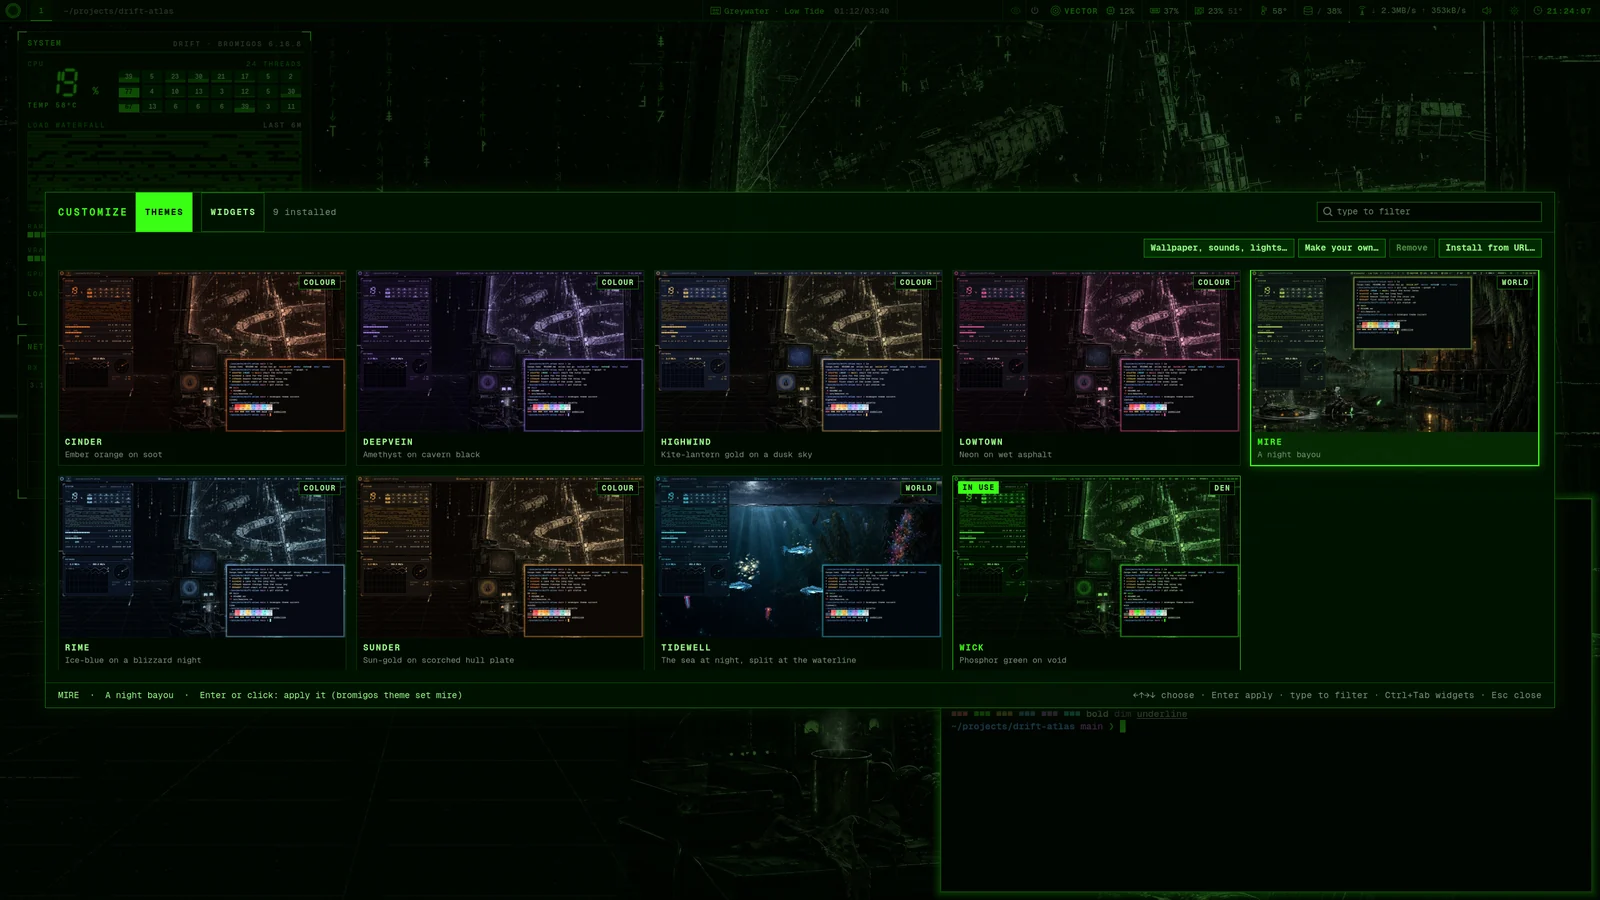
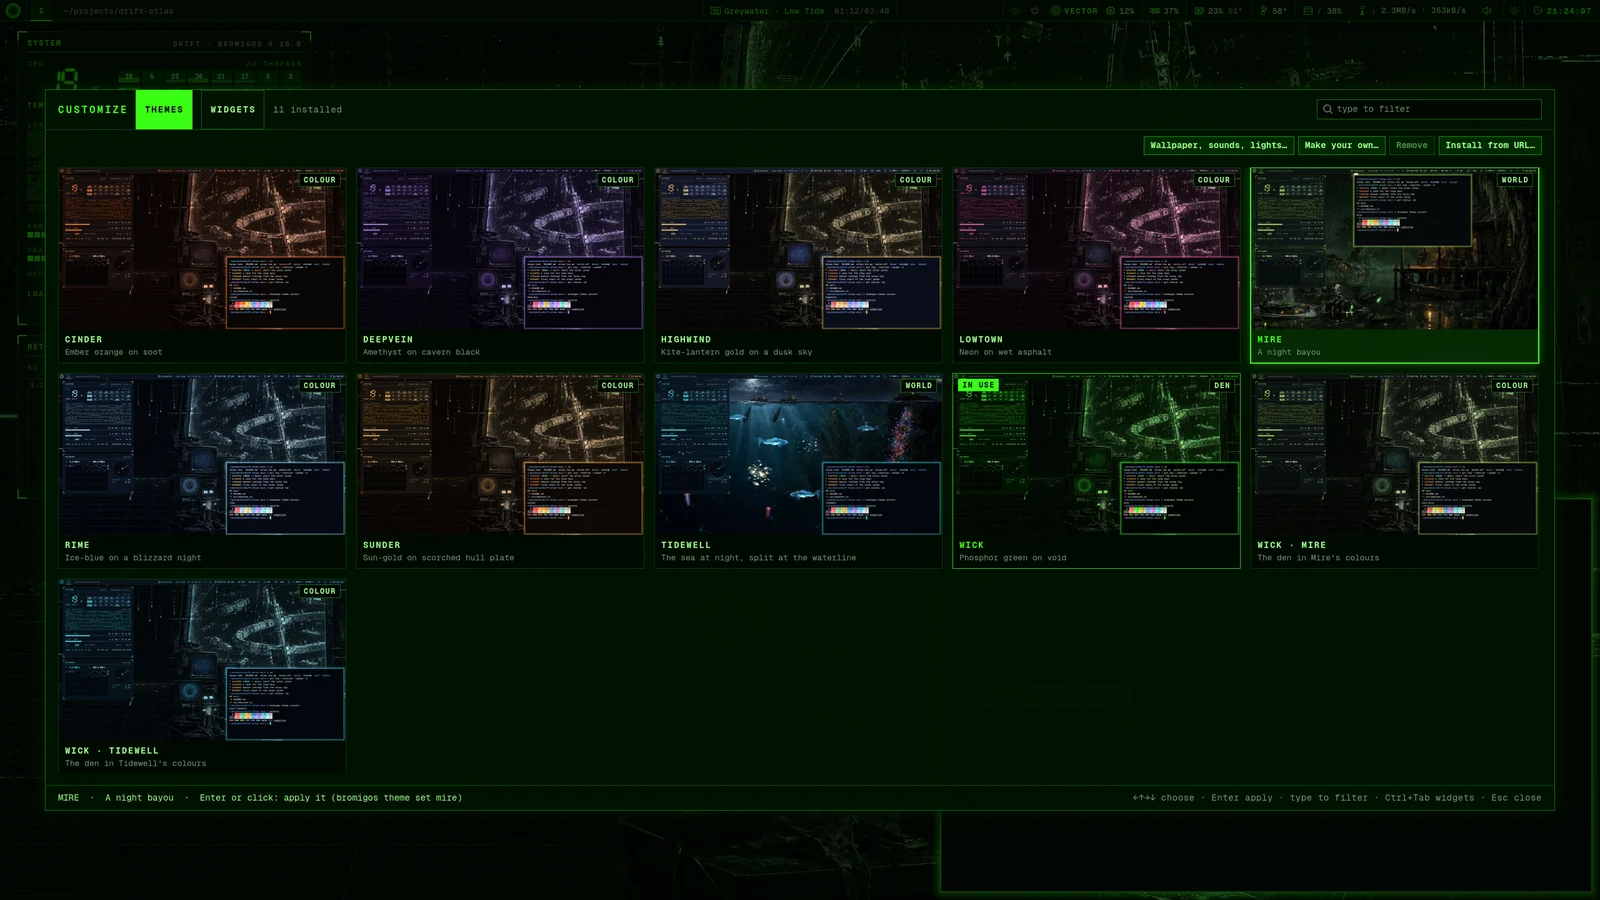
docs: theme-switcher.webp redrawn with all eleven themes, each preview the whole desktop
The Customize window on its Themes tab, over the Wick, Mire chosen, drawn
offscreen by tools/screenshots/render.py (theme-switcher) in a throwaway
home with demo readings. Every preview was drawn in the nested desktop
and captured at 1920x1080 (the kwin 6.8 fix); the old picture had nine
themes. The same picture in the docs and the manual (1600 wide). The
captions in theming.md and the manual and both ASSETS.md entries say
what it shows now.

Claude-Session: https://claude.ai/code/session_01FbnVxmYVRRhNFQnP9bFcdP

diff --git a/docs/ASSETS.md b/docs/ASSETS.md
@@ -226,10 +226,12 @@ resized to WebP for the repository.
   - `screensaver.webp`, from `overlay-screensaver`
   - `panels-cinder.webp`, from `widgets-cinder`
 - **Offscreen renders by bromigOS's own test tools.** No faces and no real hostnames.
-  - `theme-switcher.webp`: the Customize window on its Themes tab, with the previews,
-    over the Wick (`tools/screenshots/render.py`, `theme-switcher`: the switcher's own
-    renderer, `tools/theme-switcher/render.sh` with `BROMIGOS_PREVIEWS_HOLD=1`, in a
-    headless weston), 1600 wide
+  - `theme-switcher.webp`: the Customize window on its Themes tab, with all eleven
+    themes' previews (each the whole 1920×1080 desktop, drawn in the nested desktop),
+    Mire chosen, over the Wick (`tools/screenshots/render.py`, `theme-switcher`: the
+    switcher's own renderer, `tools/theme-switcher/render.sh` with
+    `BROMIGOS_PREVIEWS_HOLD=1`, in a headless weston), 1600 wide. Redrawn 2026-10-20,
+    after kwin 6.8 had cut the previews to their top-left corner
   - `customize-widgets.webp`: the Customize window on its Widgets tab, every widget drawn
     with demo readings (`tools/screenshots/render.py`, `customize-widgets`), 1600 wide
   - `edit-mode.webp`: edit mode on the Wick desktop, NETWORK picked, with the tray
@@ -316,8 +318,9 @@ no likeness and no lab hosts.
 - **`theme-cinder.webp`**, on the Themes and worlds page. The desktop in Cinder, rendered
   offscreen with demo readings (`tools/screenshots/render.py`, `theme-cinder`).
 - **`theme-switcher.webp`**, on the Themes and worlds page. The Customize window on its
-  Themes tab over the Wick, rendered offscreen with demo readings
-  (`tools/screenshots/render.py`, `theme-switcher`). The same picture as the docs'.
+  Themes tab over the Wick, with all eleven themes' previews and Mire chosen, rendered
+  offscreen with demo readings (`tools/screenshots/render.py`, `theme-switcher`). The
+  same picture as the docs'.
 - **`customize-widgets.webp`**, on the Themes and worlds page. The Customize window on its
   Widgets tab over the Wick, rendered offscreen with demo readings
   (`tools/screenshots/render.py`, `customize-widgets`). The same picture as the docs'.

diff --git a/manual/src/themes-and-worlds.md b/manual/src/themes-and-worlds.md
@@ -15,7 +15,7 @@ that reacts to what your machine is doing.
 3. Press <kbd>Enter</kbd>, or click the theme. The desktop changes colour within a second.
    A few apps change the next time you open them.
 
-![The Customize window on its Themes tab: a preview of the desktop in each theme, with Mire chosen](images/theme-switcher.webp)
+![The Customize window on its Themes tab: all eleven themes, each a preview of the whole desktop wearing it, with Mire chosen](images/theme-switcher.webp)
 
 Press <kbd>Esc</kbd> to close the switcher without changing anything. Hover over a card to
 read what the theme is.
